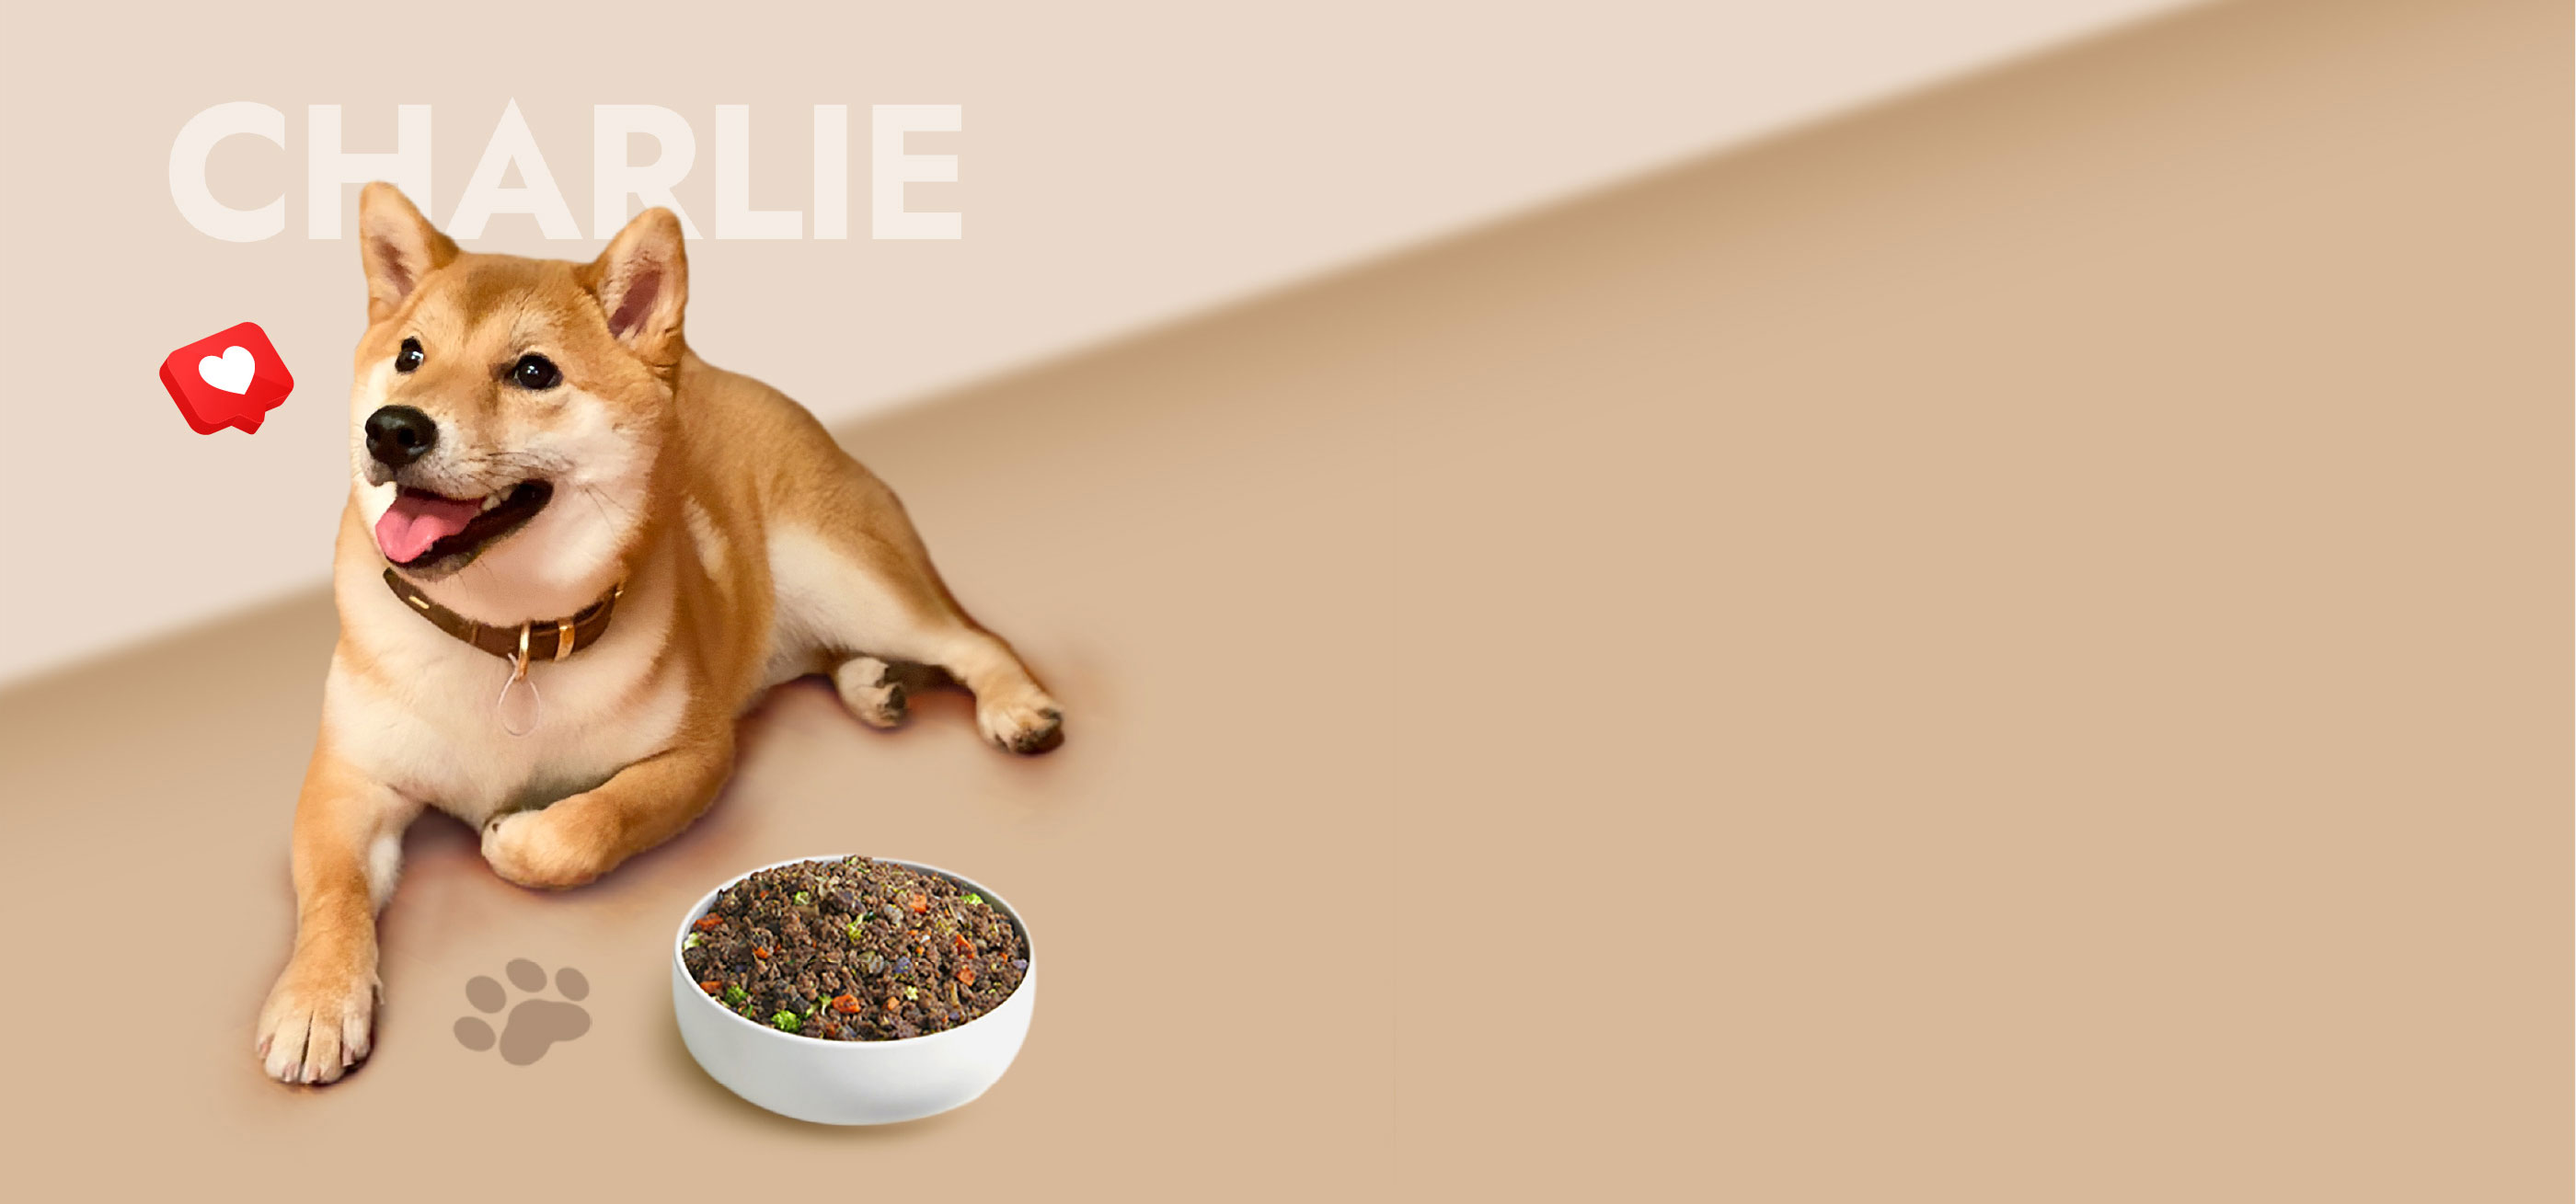
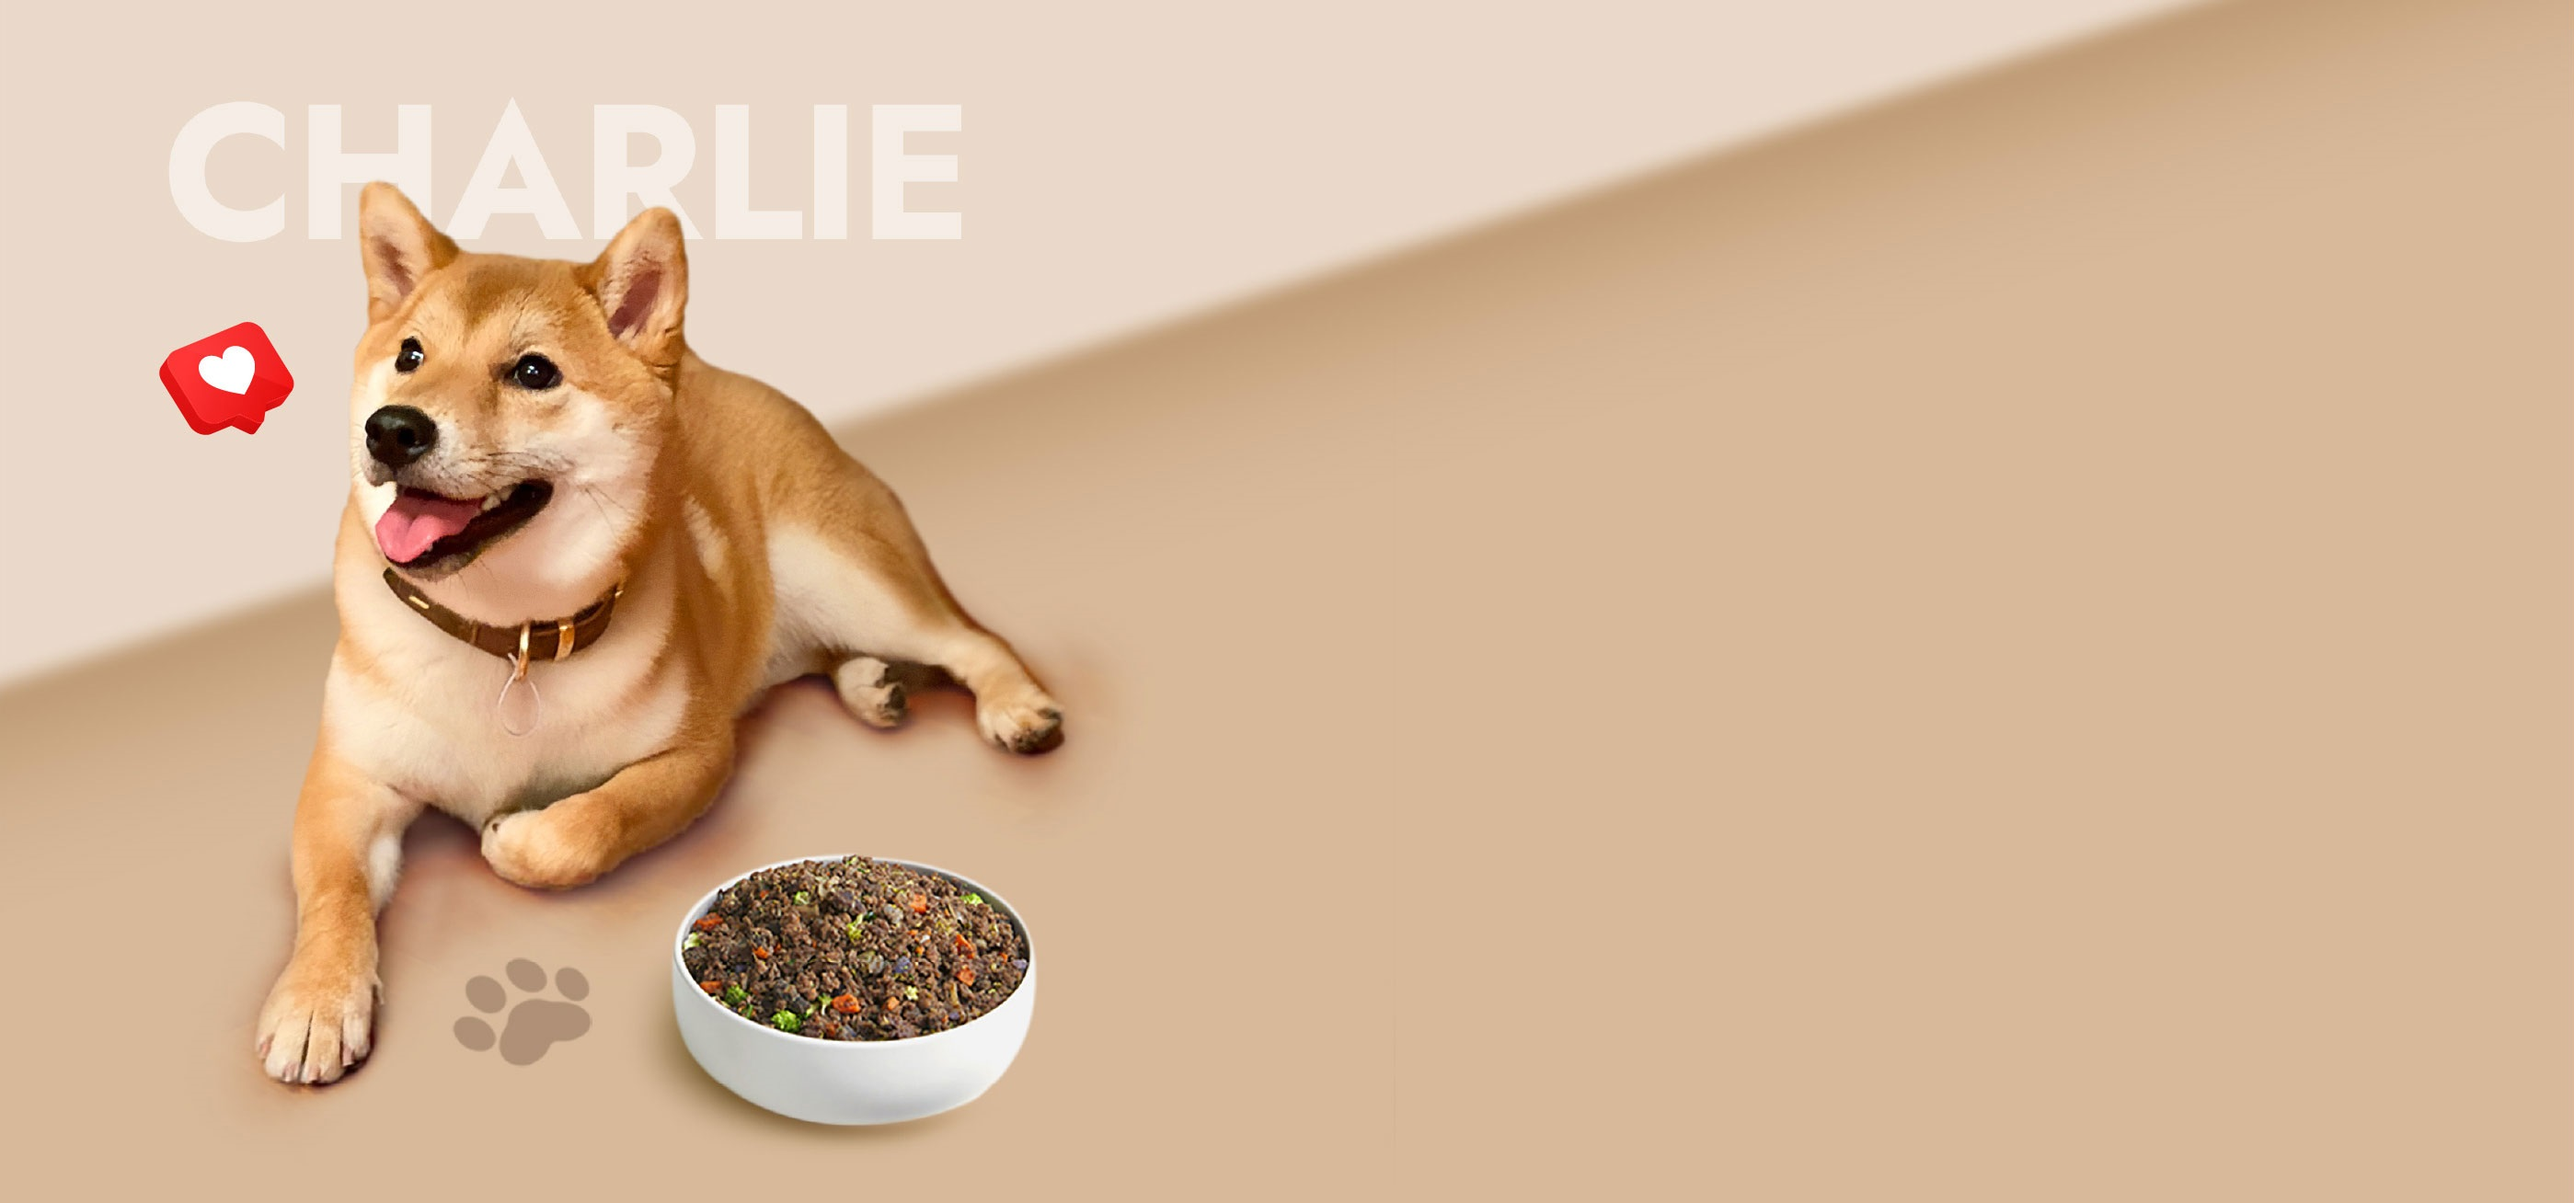
Ocelle_Change Log_About Us (P008)_v0.12

Changed region(s): [[0.2487, 0.7034, 0.4042, 0.8869]]

diff --git a/src/app/[locale]/(main)/about-us/page.tsx b/src/app/[locale]/(main)/about-us/page.tsx
@@ -20,15 +20,17 @@ export default function OurStory() {
         className=" flex min-h-[600px] flex-col justify-center bg-gold bg-opacity-10 py-4"
       >
         <Container>
-          <h1 className="heading-1 text-center font-bold text-primary">{a('we-do-it-for-them')}</h1>
+          <h1 className="heading-headline text-center font-bold text-primary">
+            {a('we-do-it-for-them')}
+          </h1>
           <div className="mx-auto mt-10 rounded-[30px] border border-primary bg-white p-12 text-[1.6vw] leading-[1.2] max-3xl:text-[2.4vw] max-2xl:text-[2.8vw] max-xl:mt-5 max-xl:p-10 max-xl:text-[3.4vw] max-lg:text-[3.8vw] max-md:p-8 max-md:text-[4.8vw] max-sm:text-[36px] max-xs:p-6 max-xs:text-[32px]">
-            <strong className="flex flex-col text-left text-[1em] leading-[1.5em] text-primary xs:flex-row xs:items-center">
-              <div className="inline-block">Ocelle |</div>
+            <strong className="flex flex-col text-left text-[1em]  text-primary xs:flex-row xs:items-center">
+              <div className="inline-block">Ocelle |&nbsp;</div>
               <div className="inline-block min-w-[240px]">
                 oh-chell-i | <Sound className="ml-[.8vw] inline-block w-[.8em] pb-1" />
               </div>
             </strong>
-            <p className="mt-[.6em] text-[.73em] text-primary">
+            <p className="text-[.73em] text-primary">
               {/* <Sound className="mr-3 inline-block w-[1.2em] max-sm:hidden" /> */}
               noun。Latin
             </p>
@@ -48,15 +50,11 @@ export default function OurStory() {
                   <th></th>
                   <th>
                     <p className="mt-3 flex text-[.5em] ">
-                      <strong className="mr-2">a.</strong>
-                      <span className="font-normal">
-                        {a.rich('block-1-content-1')}
-                        <br />
-                        {a.rich('block-1-content-2')}
-                      </span>
+                      <span className="mr-2 font-medium">a.</span>
+                      <span className="font-normal">{a.rich('block-1-content-1')}</span>
                     </p>
                     <p className="mt-3 flex text-[.5em] ">
-                      <strong className="mr-2">b.</strong>
+                      <span className="mr-2 font-medium">b.</span>
                       <span className="font-normal">{a.rich('block-1-content-3')}</span>
                     </p>
                   </th>
@@ -71,7 +69,7 @@ export default function OurStory() {
                     <strong className="text-[.6em] font-bold text-primary">
                       {a('block-1-title-2')}:
                     </strong>
-                    <span className="text-[.5em]"> {a.rich('block-1-content-4')}</span>
+                    <span className="text-[.5em] font-normal"> {a.rich('block-1-content-4')}</span>
                   </th>
                 </tr>
               </tbody>
@@ -79,69 +77,69 @@ export default function OurStory() {
           </div>
         </Container>
       </Block>
-      <TwoToneBlock
-        breakpoint="lg"
-        className={{
-          bgLeft: 'bg-brown',
-          bgRight:
-            "min-h-[520px] bg-[length:auto_100%] max-lg:min-h-[100vw] max-lg:bg-[url('./charlie-center.jpg')] lg:bg-[url('./charlie.jpg')]",
-          mbLeft: 'px-4',
-        }}
-        left={
-          <div className="py-[clamp(20px,3.5vw,60px)] text-white">
-            <h2 className="heading-1 font-bold">
-              {a.rich('block-2-title-1-1')}
-              <span className="block"> {a.rich('block-2-title-1-2')}</span>
-            </h2>
-            <div className="mt-8"></div>
-            <p className="body-1">{a('block-2-content-1')}</p>
-            <div className="mt-4"></div>
-            <p className="body-1">{a('block-2-content-2')}</p>
-            <div className="mt-4"></div>
-            <p className="body-1">{a('block-2-content-3')}</p>
-          </div>
-        }
-      />
-      <div className="relative z-0 flex items-center bg-primary bg-cover bg-center bg-repeat-x max-md:flex-col-reverse md:bg-[url('./about-us-bg.svg')] xl:h-[680px]">
+      <div className="m-0 bg-[#d8b99a] p-0">
+        <TwoToneBlock
+          breakpoint="lg"
+          className={{
+            bgLeft: 'bg-brown',
+            bgRight:
+              "min-h-[520px] bg-[length:auto_100%] bg-[5%] bg-no-repeat max-lg:min-h-[50vw] max-lg:bg-[url('./charlie-center.jpg')] max-lg:bg-[center] lg:bg-[url('./charlie.jpg')]",
+            // "min-h-[520px] bg-[url('./charlie.jpg')] bg-[length:auto_100%] bg-no-repeat max-lg:min-h-[60vw] max-lg:bg-[]",
+            mbLeft: 'px-4',
+          }}
+          left={
+            <div className="py-[clamp(20px,3.5vw,60px)] text-white">
+              <h2 className="heading-1 font-bold lg:hidden">{a.rich('block-2-title-1')}</h2>
+              <h2 className="heading-1 font-bold max-lg:hidden">{a.rich('block-2-title-1-lg')}</h2>
+              <div className="mt-8"></div>
+              <p className="body-1">{a('block-2-content-1')}</p>
+              <div className="mt-4"></div>
+              <p className="body-1">{a('block-2-content-2')}</p>
+              <div className="mt-4"></div>
+              <p className="body-1">{a('block-2-content-3')}</p>
+            </div>
+          }
+        />
+      </div>
+      <div className="relative z-0 flex items-center bg-primary bg-cover bg-center bg-repeat-x max-md:flex-col-reverse lg:bg-[url('./about-us-bg.svg')] xl:h-[680px]">
         <Image
           src="/food-1.png"
           alt="food-1"
           width={300}
           height={250}
-          className="clip-path: insea(0 40% 0 0) absolute -left-[50px] bottom-[10%] md:hidden"
+          className="absolute -left-[50px] bottom-[10%] lg:hidden"
         />
         <Image
           src="/food-2.png"
           alt="food-2"
           width={320}
           height={220}
-          className="left-30 clip-path: insea(0 40% 0 0) min-md:hidden absolute -right-[60px] bottom-[15%] max-md:block max-[450px]:hidden md:hidden"
-          style={{
-            clipPath: 'insea(0 19% 0 0)',
-          }}
+          className="left-30 clip-path: insea(0 40% 0 0) min-lg:hidden absolute -right-[60px] bottom-[15%] max-md:block max-[450px]:hidden lg:hidden"
         />
         <Image
           src="/food-3.png"
           alt="food-3"
           width={220}
           height={220}
-          className="left-30 absolute -right-[40px] -top-[40px] [clip-path:insea(0_19%_0_0)] md:hidden"
+          className="left-30 absolute -right-[40px] -top-[40px] lg:hidden"
+          loading="eager"
         />
         <div className="z-40 flex w-1/2 justify-end max-md:w-full max-md:justify-center">
           <div className="mr-8 w-full max-w-[380px] pt-10 max-md:mx-4">
             <div className="relative pt-[168%]">
-              <Image src="/dog-with-owner.png" alt="Dog with owner" fill />
+              <Image src="/dog-with-owner.png" alt="Dog with owner" fill loading="eager" />
             </div>
           </div>
         </div>
         <div className="relative -left-6 w-1/2 text-white max-md:left-0 max-md:w-full max-md:px-4">
-          <div className="absolute left-16 -translate-y-full max-md:static max-md:mt-12 max-md:translate-y-0">
+          <div className="absolute left-16 -translate-y-full max-md:static max-md:mt-12 max-md:translate-y-0 md:top-[-56px]">
             <Image
               src="/inspire.svg"
               alt="Inspire"
               width={130}
               height={140}
               className="max-md:mx-auto"
+              loading="eager"
             />
           </div>
           <div className="mt-6"></div>
@@ -174,8 +172,8 @@ export default function OurStory() {
         left={
           <div className="py-[clamp(20px,3.5vw,60px)]">
             <h2 className="heading-1 inline-block font-bold text-secondary max-[300px]:block">
-              {a('block-4-title-1-1')}
-              {a.rich('block-4-title-1-2')}
+              <span className="max-lg:hidden">{a.rich('block-4-title')}</span>
+              <span className="lg:hidden">{a.rich('block-4-title-lg')}</span>
             </h2>
             <div className="mt-8"></div>
             <p className="body-1">{a('block-4-content-1')}</p>
@@ -190,7 +188,7 @@ export default function OurStory() {
           </div>
         }
         right={
-          <div className="relative w-full max-w-[620px] max-lg:mx-auto lg:ml-[6%]">
+          <div className="relative w-full max-w-[600px] max-lg:mx-auto max-lg:max-w-[450px] lg:ml-[6%]">
             <div className="pt-[117.2%]">
               <Image
                 src="/about-us-food.png"

diff --git a/src/app/[locale]/(main)/recipes/page.tsx b/src/app/[locale]/(main)/recipes/page.tsx
@@ -225,7 +225,7 @@ export default function RecipesPage() {
 
   return (
     <main className="overflow-x-hidden">
-      <div className="bg-[#3d2316] bg-[url('./recipes-bg-mb.jpg')] bg-[length:100%_auto] bg-bottom bg-repeat-x py-[55px] max-lg:pb-[55%] lg:bg-[url('./recipes-bg.jpg')] lg:bg-[length:auto_100%] lg:bg-[calc(50%+60px)_center]">
+      <div className="bg-[#4f3b34] bg-[url('./recipes-bg-mb.jpg')] bg-[length:100%_auto] bg-bottom bg-no-repeat py-[55px] max-lg:pb-[55%] lg:bg-[url('./recipes-bg.jpg')] lg:bg-[length:auto_100%] lg:bg-[calc(50%+60px)_center]">
         <Container>
           {/* <div className="py-[4vw] text-xl text-white max-lg:w-full lg:pr-0"> */}
           <div className="text-xl text-white max-lg:w-full lg:pr-0">
